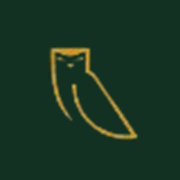
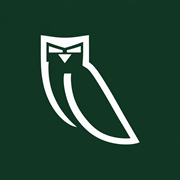
Funcionalidad: usar iconos institucionales del búho en web, iOS y Android

Changed region(s): [[0.2222, 0.1944, 0.7778, 0.8056]]

diff --git a/index.html b/index.html
@@ -9,9 +9,11 @@
     <meta name="apple-mobile-web-app-capable" content="yes" />
     <meta name="apple-mobile-web-app-status-bar-style" content="black-translucent" />
     <meta name="apple-mobile-web-app-title" content="Agenda Pignus" />
-    <link rel="icon" type="image/png" sizes="192x192" href="/pignus-app-icon-192.png?v=2" />
-    <link rel="apple-touch-icon" sizes="180x180" href="/apple-touch-icon.png?v=2" />
-    <link rel="manifest" href="/manifest.webmanifest" />
+    <link rel="icon" type="image/png" sizes="16x16" href="/favicon-16.png?v=3" />
+    <link rel="icon" type="image/png" sizes="32x32" href="/favicon.png?v=3" />
+    <link rel="icon" type="image/png" sizes="192x192" href="/pignus-app-icon-192.png?v=3" />
+    <link rel="apple-touch-icon" sizes="180x180" href="/apple-touch-icon.png?v=3" />
+    <link rel="manifest" href="/manifest.webmanifest?v=3" />
     <title>Agenda técnica | PIGNUS</title>
   </head>
   <body>
